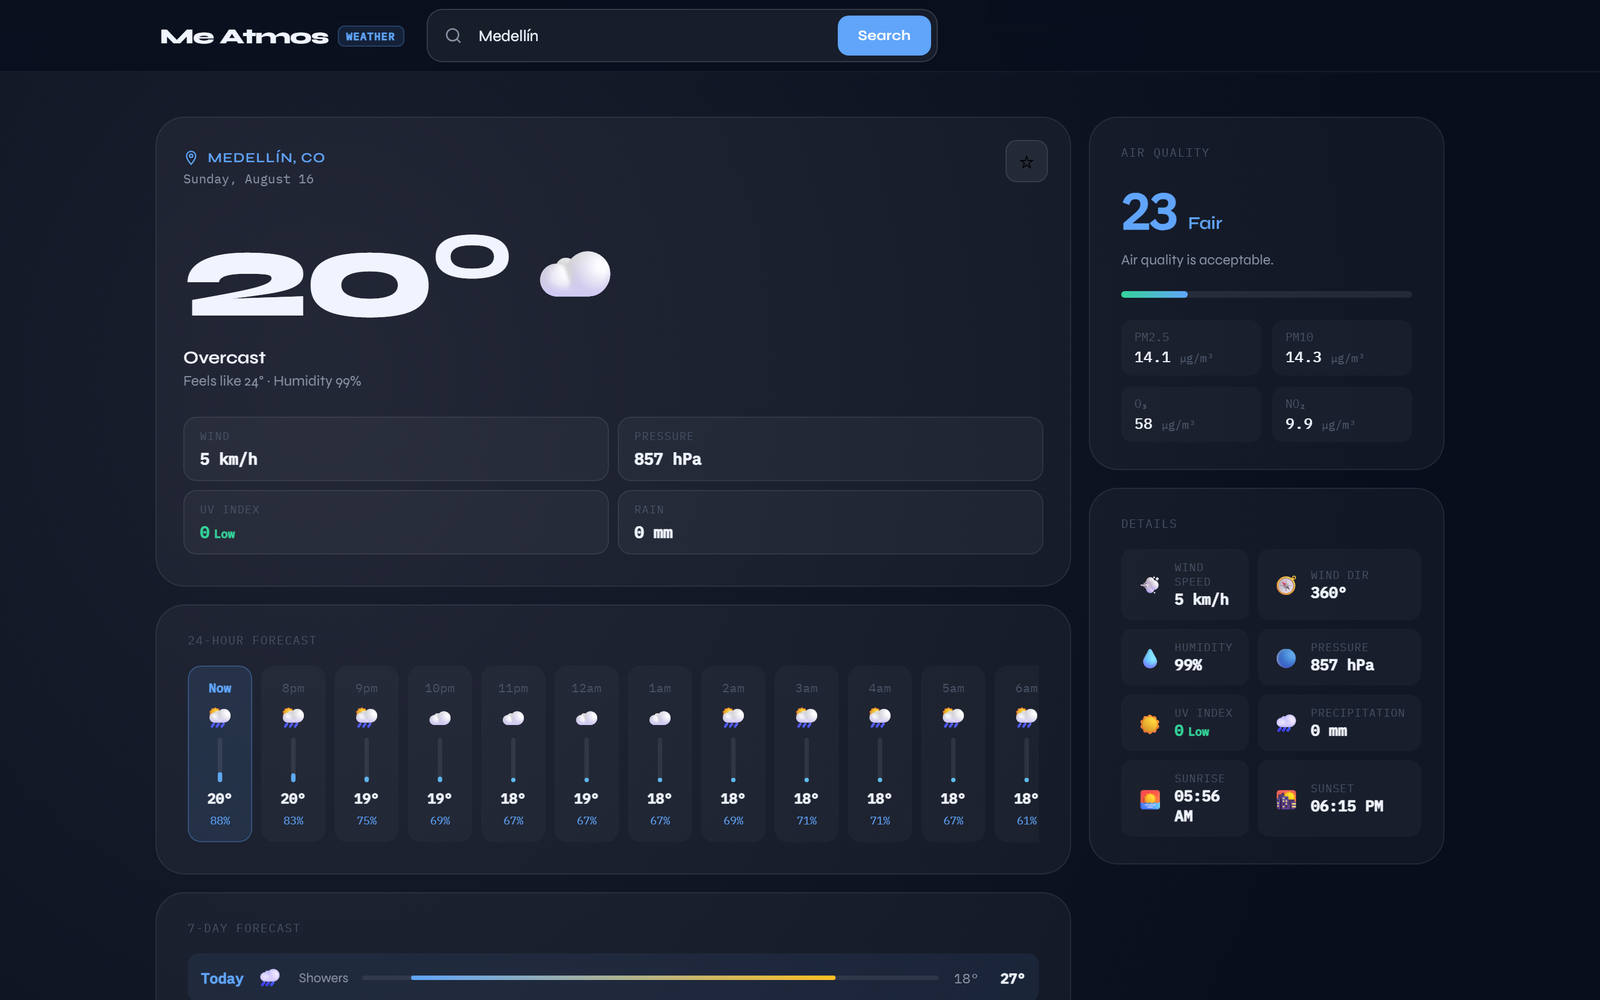
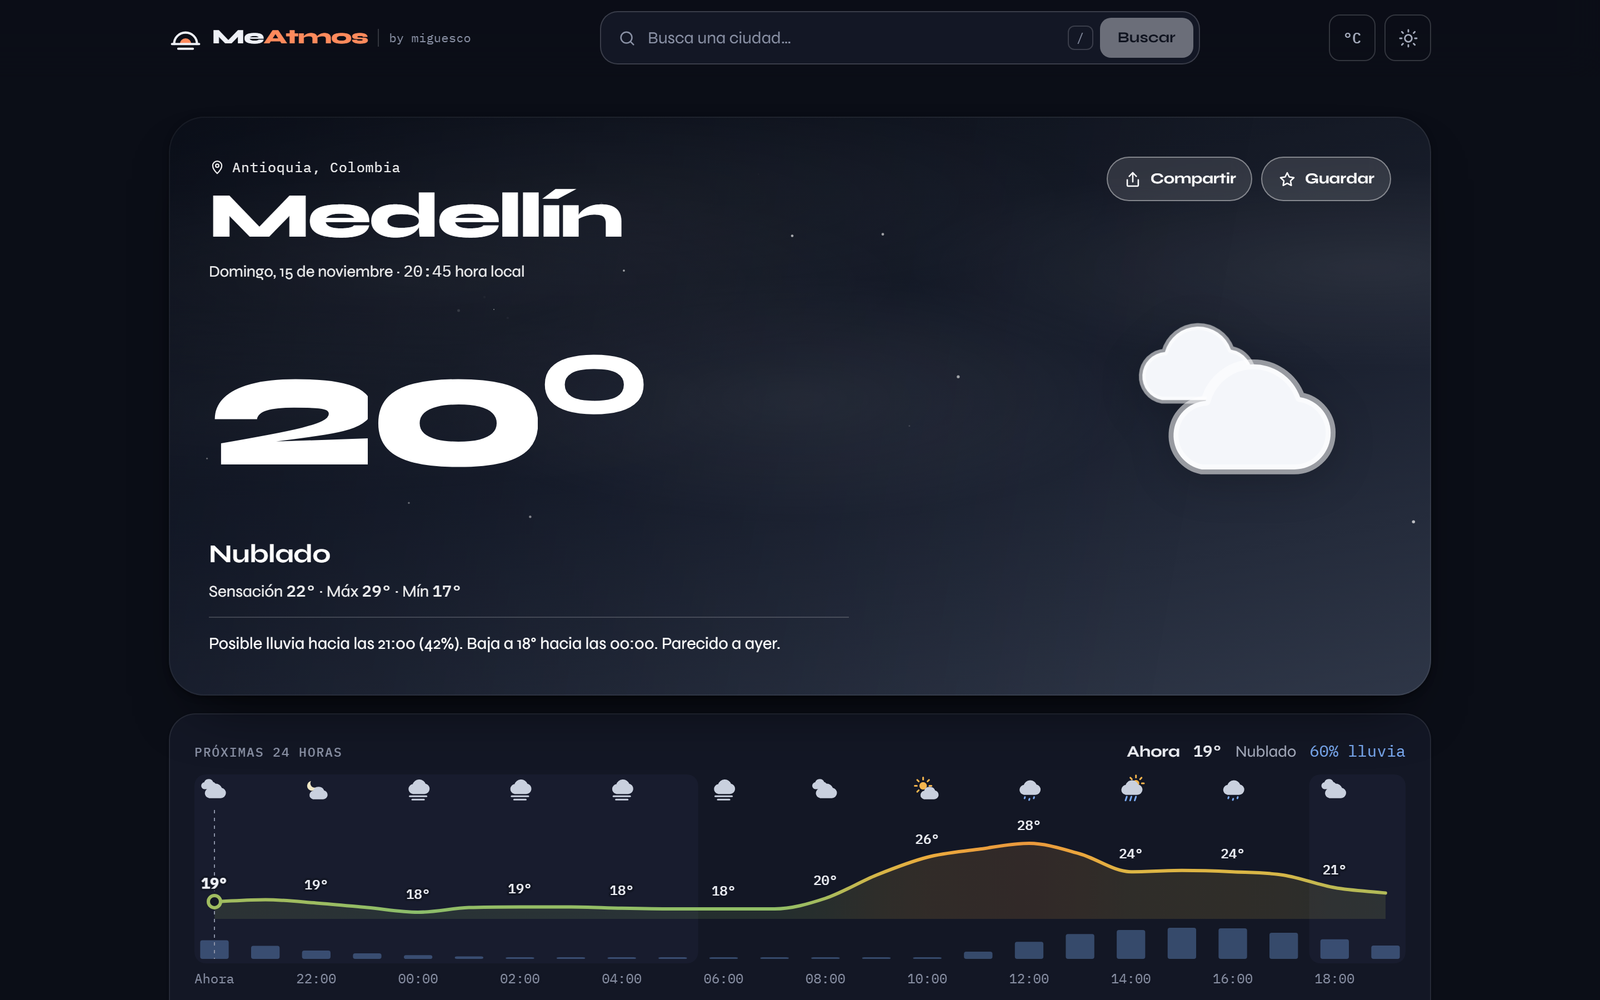
Actualizar las tarjetas de MePulse y MeAtmos
Las dos apps cambiaron desde que se escribieron sus tarjetas: MePulse
ahora tiene precios en vivo, mapa de calor y una página por moneda, y
MeAtmos dibuja el cielo de cada ciudad a su hora local. Textos en los dos
idiomas, stack (React 19, WebSocket, Motion, Canvas) y capturas nuevas,
con el texto alternativo reescrito para que describa lo que se ve.

El script de capturas entra directo al panel de Medellín por su URL,
porque MeAtmos ya no arranca con un buscador en inglés, y espera a que
el mapa de calor de MePulse termine de pintarse.

diff --git a/src/i18n/es.ts b/src/i18n/es.ts
@@ -141,19 +141,19 @@ export const es: UIStrings = {
     items: {
       mepulse: {
         name: 'MePulse',
-        tagline: 'Mercado cripto en tiempo real',
+        tagline: 'Mercado cripto en vivo',
         description:
-          'Dashboard con las 50 criptomonedas más grandes por capitalización, sparklines de 7 días dibujadas a mano en SVG y un modal con el histórico de 30 días. Lo interesante está detrás: monté una capa de funciones serverless en Vercel para saltar el CORS de CoinGecko, con caché en memoria y guardas de StrictMode para no chocar contra el límite de peticiones del plan gratuito.',
+          'Precios que se mueven en tiempo real por el WebSocket de Binance, un mapa de calor del top 50 —el área es la capitalización y el color, el cambio— y una página por moneda con un gráfico que se recorre con el puntero o las flechas. Por dentro: funciones serverless en Vercel con caché en el edge para no chocar contra el límite de CoinGecko, y los precios se agrupan para que 50 cambios por segundo cuesten un solo render.',
         imageAlt:
-          'Panel de MePulse con la tabla de criptomonedas por capitalización de mercado y sus gráficas de siete días',
+          'MePulse en tema oscuro: la capitalización total del mercado cripto en cifras grandes, una frase que resume el día, la barra de cuántas monedas suben y bajan, y el mapa de calor del top 50',
       },
       meatmos: {
         name: 'MeAtmos',
-        tagline: 'Clima y calidad del aire',
+        tagline: 'El clima, a la hora de allá',
         description:
-          'Panel meteorológico para cualquier ciudad del mundo: condiciones actuales, línea de tiempo de 24 horas, pronóstico a 7 días e índice de calidad del aire en escala europea con PM2.5, PM10, ozono y NO₂. El fondo cambia según el clima que esté haciendo. Todo sobre las APIs abiertas de Open-Meteo, sin una sola clave que gestionar.',
+          'Buscas una ciudad y la tarjeta principal se vuelve una ventana a su cielo: lluvia inclinada por el viento real, niebla, nubes según la nubosidad y estrellas de noche, dibujadas en canvas y a la hora local de esa ciudad. Debajo, una frase que resume el día, la curva de 24 horas para recorrer con el puntero, 7 días, calidad del aire, viento y sol. Todo sobre las APIs abiertas de Open-Meteo, sin una sola clave que gestionar.',
         imageAlt:
-          'Panel de MeAtmos mostrando la temperatura actual, el pronóstico de siete días y el índice de calidad del aire',
+          'MeAtmos con el clima de Medellín: la temperatura actual sobre el cielo dibujado de ese momento, una frase que resume las próximas horas y la curva de las siguientes 24 horas',
       },
     },
   },

diff --git a/src/i18n/en.ts b/src/i18n/en.ts
@@ -141,19 +141,19 @@ export const en: UIStrings = {
     items: {
       mepulse: {
         name: 'MePulse',
-        tagline: 'Real-time crypto market',
+        tagline: 'Live crypto market',
         description:
-          'A dashboard covering the 50 largest cryptocurrencies by market cap, with 7-day sparklines hand-drawn in SVG and a modal holding 30 days of history. The interesting part is behind it: I built a Vercel serverless layer to get around CoinGecko’s CORS policy, with in-memory caching and StrictMode guards so it never hits the free tier’s rate limit.',
+          'Prices that move in real time over Binance’s WebSocket, a heatmap of the top 50 —area is market cap, color is the change— and a page for every coin with a chart you can scrub with the pointer or the arrow keys. Under the hood: Vercel serverless functions with edge caching to stay under CoinGecko’s rate limit, and price ticks batched so 50 changes a second cost a single render.',
         imageAlt:
-          'MePulse dashboard showing the cryptocurrency table ranked by market cap with their seven-day charts',
+          'MePulse in its dark theme: the total crypto market cap in large figures, a sentence summing up the day, a bar of how many coins are up and down, and the heatmap of the top 50',
       },
       meatmos: {
         name: 'MeAtmos',
-        tagline: 'Weather and air quality',
+        tagline: 'The weather, on local time',
         description:
-          'A weather dashboard for any city in the world: current conditions, a 24-hour timeline, a 7-day forecast and the air quality index on the European scale with PM2.5, PM10, ozone and NO₂. The background shifts with the weather outside. All of it on Open-Meteo’s open APIs, without a single key to manage.',
+          'Search a city and the main card becomes a window onto its sky: rain slanted by the real wind, fog, clouds sized by cloud cover and stars at night, drawn on canvas at that city’s local time. Below it, a sentence that sums up the day, a 24-hour curve you can scrub with the pointer, 7 days, air quality, wind and sun. All of it on Open-Meteo’s open APIs, without a single key to manage.',
         imageAlt:
-          'MeAtmos dashboard showing the current temperature, the seven-day forecast and the air quality index',
+          'MeAtmos showing the weather in Medellín: the current temperature over a drawing of the sky at that moment, a sentence about the next few hours and the curve for the next 24 hours',
       },
     },
   },

diff --git a/src/projects.ts b/src/projects.ts
@@ -17,12 +17,12 @@ export const PROJECTS: Record<ProjectId, Project> = {
   mepulse: {
     demo: 'https://me-pulse.vercel.app/',
     code: 'https://github.com/MiguelEscobar0345/MePulse',
-    stack: ['React 18', 'Vite', 'Vercel Functions', 'CoinGecko API'],
+    stack: ['React 19', 'Vite', 'WebSocket', 'Vercel Functions', 'CoinGecko API'],
   },
   meatmos: {
     demo: 'https://me-atmos.vercel.app/',
     code: 'https://github.com/MiguelEscobar0345/MeAtmos',
-    stack: ['React 18', 'Vite', 'Open-Meteo', 'CSS-in-JS'],
+    stack: ['React 19', 'Vite', 'Motion', 'Canvas', 'Open-Meteo'],
   },
 }
 
